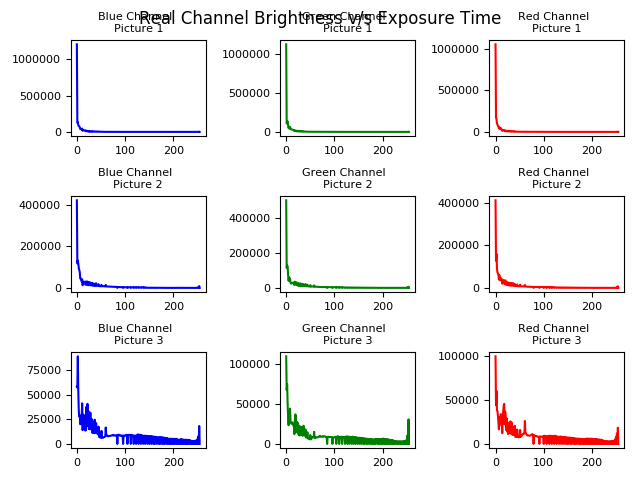
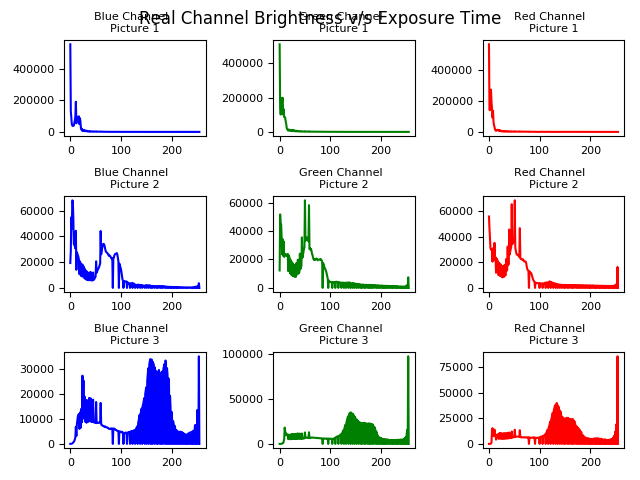
Composition Algorithms and other stuff  (#8)
* Finished algorithms

* Lots of changes

* Lots of changes

diff --git a/hdr/composition.py b/hdr/composition.py
@@ -6,10 +6,12 @@ from utility import imageutil as im
 
 
 def best_pixel_hdr(g, images, exposure_times):
+    # This algorithm selects the pixel in the picture with the highest exposure time, if that pixel is not saturated
     return generate_hdr(g, images, exposure_times, get_brightness_value_best)
 
 
 def average_pixel_hdr(g, images, exposure_times):
+    # This algorithm considers the average value of the pixel in pictures where its not saturated
     return generate_hdr(g, images, exposure_times, get_brightness_value_average)
 
 
@@ -43,9 +45,9 @@ def generate_hdr(g, images, exposure_times, callback):
     green_channels, corr_green_channels = __get_channels_for_composition__(image_channels, corr_channels, 1)
     red_channels, corr_red_channels = __get_channels_for_composition__(image_channels, corr_channels, 2)
 
-    new_blue_channel = __compose_channels__(blue_channels, corr_blue_channels, a, g[0], callback)
-    new_green_channel = __compose_channels__(green_channels, corr_green_channels, a, g[1], callback)
-    new_red_channel = __compose_channels__(red_channels, corr_red_channels, a, g[2], callback)
+    new_blue_channel = __compose_channels__(blue_channels, corr_blue_channels, a, callback)
+    new_green_channel = __compose_channels__(green_channels, corr_green_channels, a, callback)
+    new_red_channel = __compose_channels__(red_channels, corr_red_channels, a, callback)
 
     new_blue_channel = new_blue_channel.reshape(shp)
     new_green_channel = new_green_channel.reshape(shp)
@@ -60,7 +62,7 @@ def generate_hdr(g, images, exposure_times, callback):
     return HDR_image
 
 
-def __compose_channels__(channels_pixels, corr_values, a, g, callback):
+def __compose_channels__(channels_pixels, corr_values, a, callback):
     # For a particular channel,
     # Returns a float64 image of channel
     new_channel_brightness = []
@@ -73,29 +75,27 @@ def __compose_channels__(channels_pixels, corr_values, a, g, callback):
 
         brightness = [corr_values[0][i], corr_values[1][i], corr_values[2][i]]
 
-        new_channel_brightness.append(callback(pixel1, pixel2, pixel3, brightness, a, g))
+        new_channel_brightness.append(callback(pixel1, pixel2, pixel3, brightness, a))
 
     return np.array(new_channel_brightness)
 
 
-def get_brightness_value_best(pixel_1, pixel_2, pixel_3, corr_pixel_values, a, g):
-
-    if pixel_3 <= 255 / a[2]:
+def get_brightness_value_best(pixel_1, pixel_2, pixel_3, corr_pixel_values, a):
+    if pixel_3 < 255 / a[2]:
         return corr_pixel_values[2] / a[2]
-    elif pixel_2 <= 255 / a[1]:
+    elif pixel_2 < 255 / a[1]:
         return corr_pixel_values[1] / a[1]
     else:
         return corr_pixel_values[0] / a[0]
 
 
-def get_brightness_value_average(pixel_1, pixel_2, pixel_3, corr_pixel_values, a, g):
-    if pixel_3 <= 255 / a[2]:
+def get_brightness_value_average(pixel_1, pixel_2, pixel_3, corr_pixel_values, a):
+    if pixel_3 < 255 / a[2]:
         return (corr_pixel_values[2] / a[2] + corr_pixel_values[1] / a[1] + corr_pixel_values[0] / a[0]) / 3
-    elif pixel_2 <= 255 / a[1]:
+    elif pixel_2 < 255 / a[1]:
         return (corr_pixel_values[1] / a[1] + corr_pixel_values[0] / a[0]) / 2
     else:
         return corr_pixel_values[0] / a[0]
-
 
 
 def __get_channels_for_composition__(image_channels, corr_channels, channel):
@@ -116,12 +116,9 @@ def __preprocess__(image, g):
 def __ravel__(channels):
     # For an image's channels, converts them into 1D arrays
     new_channels = []
-    # print(len(channels[2]))
 
     for i in range(0, 3):
         # print(i)
         new_channels.append(channels[i].ravel())
 
     return np.array(new_channels)
-
-

diff --git a/HDR.py b/HDR.py
@@ -8,7 +8,7 @@ from hdr import composition as cp
 
 from utility import constants as ct
 
-DISPLAY = ct.DISPLAY_PLOT
+DISPLAY = ct.DONT_DISPLAY_PLOT
 
 g = gc.learn_gamma_parameters_and_plot(display=DISPLAY)
 
@@ -20,6 +20,22 @@ HDR = cp.average_pixel_hdr(g, images, ct.EXPOSURE_TIMES)
 
 HDR = np.float32(HDR / 255)
 
-tonemapReinhard = cv2.createTonemapReinhard(1.5, 0, 0, 0)
+tonemapReinhard = cv2.createTonemapReinhard(0.8, 0, 0, 0)
 ldrReinhard = tonemapReinhard.process(HDR)
-cv2.imwrite("ldr-Reinhard.jpg", ldrReinhard * 255)
+cv2.imwrite("ldr-average.jpg", ldrReinhard * 255)
+
+HDR = cp.average_pixel_hdr(g, images, ct.EXPOSURE_TIMES)
+
+HDR = np.float32(HDR / 255)
+
+tonemapReinhard = cv2.createTonemapReinhard(0.8, 0, 0, 0)
+ldrReinhard = tonemapReinhard.process(HDR)
+cv2.imwrite("ldr-average.jpg", ldrReinhard * 255)
+
+HDR = cp.best_pixel_hdr(g, images, ct.EXPOSURE_TIMES)
+
+HDR = np.float32(HDR / 255)
+
+tonemapReinhard = cv2.createTonemapReinhard(0.8, 0, 0, 0)
+ldrReinhard = tonemapReinhard.process(HDR)
+cv2.imwrite("ldr-best.jpg", ldrReinhard * 255)

diff --git a/hdr/exposure.py b/hdr/exposure.py
@@ -18,9 +18,6 @@ plt.rc('figure', titlesize=ct.BIGGER_SIZE)  # fontsize of the figure title
 
 def generate_hdr_stack_histogram(file_name, file_name_exp, gamma_params, display=ct.DONT_DISPLAY_PLOT):
     # Loads the three images from the exposure folder and generates the plots
-    # image1 = im.read(ct.EXPOSURE_READ_PATH + "/a750.jpg")
-    # image2 = im.read(ct.EXPOSURE_READ_PATH + "/a20.jpg")
-    # image3 = im.read(ct.EXPOSURE_READ_PATH + "/a4.jpg")
 
     image1 = im.read(ct.EXPOSURE_READ_PATH + "/Correctly_Exposed.JPG")
     image2 = im.read(ct.EXPOSURE_READ_PATH + "/Partly_Saturated.JPG")

diff --git a/utility/constants.py b/utility/constants.py
@@ -13,10 +13,9 @@ CHANNEL_COLOUR = {0: 'b', 1: 'g', 2: 'r'}
 GAMMA_EXPOSURE_TIMES = [1 / 350, 1 / 250, 1 / 180, 1 / 125, 1 / 90, 1 / 60, 1 / 45, 1 / 30]
 
 # -----------------------------------------------
-# GAMMA CORRECTION PARAMETERS
-EXPOSURE_TIMES1 = [1 / 750, 1/ 20, 1 / 4]
-EXPOSURE_TIMES = [1 / 350, 1 / 90, 1 / 30]
-
+# EXPOSURE PARAMETERS
+# EXPOSURE_TIMES = [1 / 350, 1 / 90, 1 / 30]
+EXPOSURE_TIMES = [1/ 1500, 1 / 350, 1 / 125]
 # -----------------------------------------------
 # IMAGE PATHS
 GAMMA_WRITE_PATH = 'images/gamma/out'
